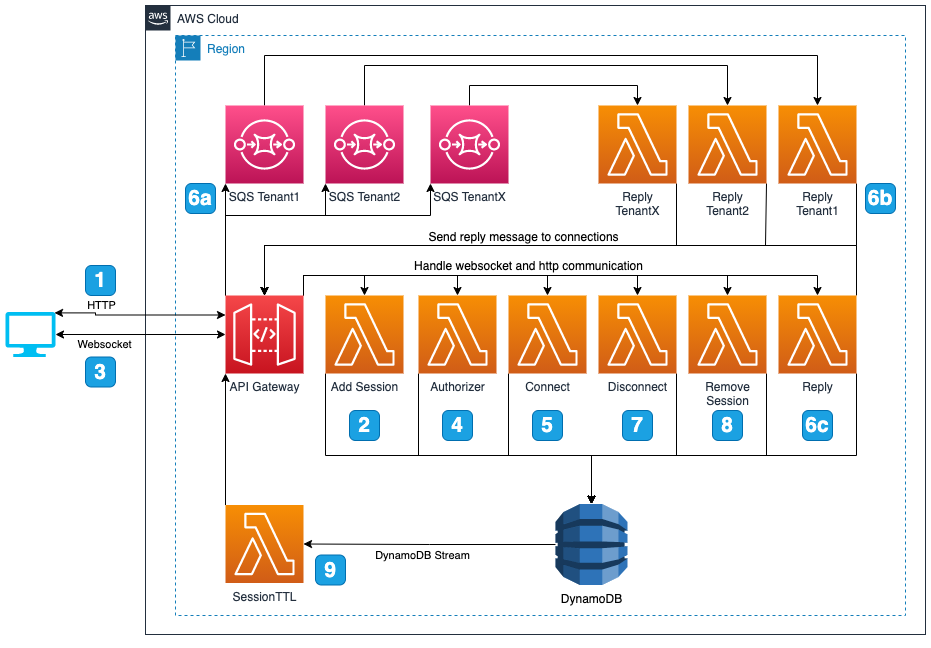
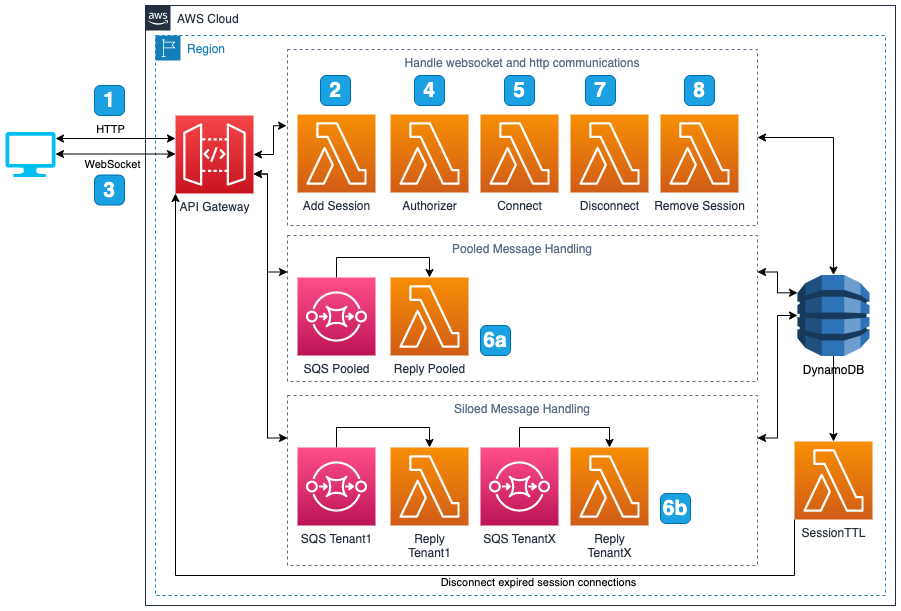
Updating to remove the default route and put in a pooled and siloed SQS FIFO queue to streamline the sample for multi tenancy

diff --git a/lambda/SampleClient.js b/lambda/SampleClient.js
@@ -5,8 +5,8 @@ const connectButton = document.querySelector("#connect");
 const createSessionButton = document.querySelector("#createSession");
 const deleteSessionButton = document.querySelector("#deleteSession");
 const clearLogButton = document.querySelector("#clearLog");
-const sendButton = document.querySelector("#send");
-const sendQueueButton = document.querySelector("#sendQueue");
+const sendPooledButton = document.querySelector("#sendPooled");
+const sendSiloButton = document.querySelector("#sendSilo");
 const tenantId = document.querySelector("#tenantId");
 const sessionId = document.querySelector("#sessionId");
 const message = document.querySelector("#message");
@@ -178,21 +178,19 @@ connectButton.addEventListener("click", () => {
     }
 });
 
-function sendMesssage(sqs) {
+function sendMesssage(silo) {
     let data = {};
     data.message = message.value;
-    if (sqs) {
-        data.action = "PerTenantSQS";
-    }
+    data.action = silo ? "SiloSQS" : "PooledSQS";
     let sendData = JSON.stringify(data);
     connection.send(sendData);
     addCommunication("Sent: " + sendData);
 }
 
-sendButton.addEventListener("click", () => {
+sendPooledButton.addEventListener("click", () => {
     sendMesssage(false);
 });
 
-sendQueueButton.addEventListener("click", () => {
+sendSiloButton.addEventListener("click", () => {
     sendMesssage(true);
 });

diff --git a/lambda/WebsocketEcho.js b/lambda/WebsocketEcho.js
@@ -5,6 +5,9 @@ const AWS = require("aws-sdk");
 const common = require("./Common.js");
 const apig = new AWS.ApiGatewayManagementApi({ endpoint: process.env.ApiGatewayEndpoint });
 
+/// This sample file is currently NOT used in this sample but is given as an example of executing a Lambda directly vs using SQS
+/// The blog post associated with this sample goes more in depth on why you may choose direct Lambda execution vs SQS
+
 exports.handler = async function(event, context) {
     //console.log('Received event:', JSON.stringify(event, null, 2));
     const {body, requestContext: {connectionId, routeKey, requestId}} = event;

diff --git a/lambda/SampleClient.html b/lambda/SampleClient.html
@@ -45,7 +45,7 @@
             <tr>
                 <td></td>
                 <td>
-                    <button id="connect">Connect</button><button id="send">Send</button><button id="sendQueue">Send Queue</button>
+                    <button id="connect">Connect</button><button id="sendSilo">Send Silo</button><button id="sendPooled">Send Pooled</button>
                 </td>
             </tr>
         </table>

diff --git a/src/main/java/com/amazonaws/services/sample/apigateway/websocketratelimit/RateLimitStack.java b/src/main/java/com/amazonaws/services/sample/apigateway/websocketratelimit/RateLimitStack.java
@@ -34,7 +34,6 @@ public class RateLimitStack extends Stack {
     private Function tenantFunction;
     private Function websocketConnectFunction;
     private Function websocketDisconnectFunction;
-    private Function websocketEchoFunction;
     private Function authorizerFunction;
     private WebSocketApi api;
     private HttpApi sessionApi;
@@ -57,10 +56,10 @@ public class RateLimitStack extends Stack {
         createTenantLambda();
         createWebsocketConnectLambda();
         createWebsocketDisconnectLambda();
-        createWebsocketEchoLambda();
         createAuthorizerLambda();
         createAPIGatewayWebsocket();
-        createPerTenantQueueWebsocketAPIRoute();
+        createQueueWebsocketAPIRoute(true); // silo
+        createQueueWebsocketAPIRoute(false); // pooled
         createAuthorizer();
         createConnectIntegration();
         createStage();
@@ -169,14 +168,6 @@ public class RateLimitStack extends Stack {
         sessionTable.grantReadWriteData(websocketDisconnectFunction);
     }
 
-    private void createWebsocketEchoLambda() {
-        websocketEchoFunction = Function.Builder.create(this, "WebsocketEcho")
-                .runtime(Runtime.NODEJS_12_X)
-                .code(Code.fromAsset("lambda"))
-                .handler("WebsocketEcho.handler")
-                .build();
-    }
-
     private void createAuthorizerLambda() {
         authorizerFunction = Function.Builder.create(this, "Authorizer")
                 .runtime(Runtime.NODEJS_12_X)
@@ -197,28 +188,25 @@ public class RateLimitStack extends Stack {
                                 .handler(websocketDisconnectFunction)
                                 .build())
                         .build())
-                .defaultRouteOptions(WebSocketRouteOptions.builder()
-                        .integration(LambdaWebSocketIntegration.Builder.create()
-                                .handler(websocketEchoFunction)
-                                .build())
-                        .build())
                 .build();
     }
 
-    private void createPerTenantQueueWebsocketAPIRoute() {
-        Role apiGatewayWebsocketSQSRole = Role.Builder.create(this, "ApiGatewayWebsocketSQSRole")
+
+    private void createQueueWebsocketAPIRoute(boolean silo) {
+        String nameExt = silo ? "Silo" : "Pooled";
+        Role apiGatewayWebsocketSQSRole = Role.Builder.create(this, "ApiGatewayWebsocket" + nameExt + "SQSRole")
                 .assumedBy(ServicePrincipal.Builder.create("apigateway.amazonaws.com").build())
-                .inlinePolicies(Map.of("APIGatewaySQSSendMessagePolicy", PolicyDocument.Builder.create()
+                .inlinePolicies(Map.of("APIGateway" + nameExt + "SQSSendMessagePolicy", PolicyDocument.Builder.create()
                                 .statements(List.of(PolicyStatement.Builder.create()
                                                 .effect(Effect.ALLOW)
                                                 .actions(List.of("sqs:SendMessage"))
-                                                .resources(List.of("arn:aws:sqs:" + getRegion() +":" + getAccount() + ":tenant-*.fifo"))
+                                                .resources(List.of("arn:aws:sqs:" + getRegion() +":" + getAccount() + ":tenant-" + (silo ? "*" : nameExt) + ".fifo"))
                                         .build()))
                         .build()))
                 .build();
         String requestTemplateItem = "";
         requestTemplateItem += "Action=SendMessage";
-        requestTemplateItem += "&MessageGroupId=$context.authorizer.sessionId";
+        requestTemplateItem += "&MessageGroupId=$context.authorizer.tenantId-$context.authorizer.sessionId";
         requestTemplateItem += "&MessageDeduplicationId=$context.requestId";
         requestTemplateItem += "&MessageAttribute.1.Name=tenantId&MessageAttribute.1.Value.StringValue=$context.authorizer.tenantId&MessageAttribute.1.Value.DataType=String";
         requestTemplateItem += "&MessageAttribute.2.Name=sessionId&MessageAttribute.2.Value.StringValue=$context.authorizer.sessionId&MessageAttribute.2.Value.DataType=String";
@@ -231,7 +219,7 @@ public class RateLimitStack extends Stack {
         requestTemplateItem += "&MessageAttribute.9.Name=tenantConnections&MessageAttribute.9.Value.StringValue=$context.authorizer.tenantConnections&MessageAttribute.9.Value.DataType=String";
         requestTemplateItem += "&MessageAttribute.10.Name=messagesPerMinute&MessageAttribute.10.Value.StringValue=$context.authorizer.messagesPerMinute&MessageAttribute.10.Value.DataType=String";
         requestTemplateItem += "&MessageBody=$input.json('$')";
-        CfnIntegration integration = CfnIntegration.Builder.create(this, "Integration")
+        CfnIntegration integration = CfnIntegration.Builder.create(this, nameExt + "Integration")
                 .apiId(api.getApiId())
                 .connectionType("INTERNET")
                 .integrationType("AWS")
@@ -244,17 +232,17 @@ public class RateLimitStack extends Stack {
                         "integration.request.header.Content-Type",
                         "'application/x-www-form-urlencoded'",
                         "integration.request.path.queue",
-                        "context.authorizer.tenantId"))
+                        silo ? "context.authorizer.tenantId" : "'" + nameExt + "'"))
                 .requestTemplates(Map.of(
                         "$default",
                         requestTemplateItem
                 ))
                 .build();
-        CfnRoute.Builder.create(this, "PerTenantQueueRoute")
+        CfnRoute.Builder.create(this, nameExt + "Route")
                 .apiId(api.getApiId())
-                .routeKey("PerTenantSQS")
+                .routeKey(nameExt + "SQS")
                 .target("integrations/" + integration.getRef())
-                .build();
+                .build();            
     }
 
     private void createAuthorizer() {
@@ -338,7 +326,6 @@ public class RateLimitStack extends Stack {
         setupWebsocketFunction(sessionTTLLambda, null, true, true);
         setupWebsocketFunction(websocketConnectFunction, "/*/$connect", true);
         setupWebsocketFunction(websocketDisconnectFunction, "/*/$disconnect", true);
-        setupWebsocketFunction(websocketEchoFunction, "/*/$default", true);
         setupWebsocketFunction(authorizerFunction, "/authorizers/" + authorizer.getRef(), false);
         setupWebsocketFunction(sessionFunction, null, false);
         setupWebsocketFunction(tenantFunction, null, false, false);
@@ -400,6 +387,8 @@ public class RateLimitStack extends Stack {
         addSampleTenantId("a5a82459-3f18-4ecd-89a6-2d13af314751", "60", "5", "2", "10", "200", "60", 1);
         addSampleTenantId("9175b21a-332a-4a7a-a72d-9184ad7186c0", "120", "10", "5", "100", "300","600",2);
         addSampleTenantId("31a2e8c6-1826-11ec-9621-0242ac130002", "180", "30", "10", "1000", "300","6000",3);
+        Function sqsEchoFunction = createSQSEchoLambda("Pooled");
+        createSQSFifoQueuePerTenant("Pooled", sqsEchoFunction);
     }
 
     private void addSampleTenantId(String tenantId, String tenantPerMinute, String sessionPerMinute, String connectionsPerSession, String tenantConnections, String sessionTTL, String messagesPerMinute, int index) {

diff --git a/README.md b/README.md
@@ -13,13 +13,13 @@ An Amazon SQS queue and AWS Lambda function is create for each tenant to allow f
 <img alt="Architecture" src="./images/architecture.png" />
 
 1. The client send an HTTP PUT request to the Amazon API Gateway HTTP endpoint to create a session for a tenant. This call could also be authenticated if required but that is outside the scope of this sample.
-2. The session AWS Lambda will create a session and store it in the DynamoDB with a TTL (Time To Live) value specified which will remove all session connections if no communication is sent or received over a specific period of time.
+2. The AWS Lambda will create a session and store it in the DynamoDB with a <a href="https://docs.aws.amazon.com/amazondynamodb/latest/developerguide/TTL.html">TTL (Time To Live)</a> value specified. <a href="https://docs.aws.amazon.com/amazondynamodb/latest/developerguide/time-to-live-ttl-streams.html">Amazon DynamoDB Streams</a> is used to remove all session connections if no communication is sent or received over a specific period of time.
 3. Once a session is created the client will initiate a websocket connection to the Amazon AWS API Gateway websocket endpoint.
 4. An AWS Lambda function is used as the Authorizer for the websocket connection. The authorizer will do the following:
    <ol type="a" style="list-style-type: lower-alpha;">
       <li>Validate the tenant exists</li>
       <li>Validate the session exists</li>
-      <li>Add the tenantId, sessionId, and tenant settings to the authorizer context</li>
+      <li>Add the tenantId, sessionId, connectionId, and tenant settings to the authorizer context</li>
    </ol>
 5. An AWS Lambda function is used during connect to do the following:
    <ol type="a" style="list-style-type: lower-alpha;">
@@ -30,11 +30,10 @@ An Amazon SQS queue and AWS Lambda function is create for each tenant to allow f
       <li>Add the connectionId to the sessions connectionId set and update the session Time To Live (TTL)</li>
       <li>Increment the total number of connections for the tenant</li>
    </ol>
-6. Messages are processed as either silo or pooled depending on the route selected 
+6. Messages are processed as either Siloed or Pooled FIFO Queue depending on the route selected. Note that is FIFO message ordering is not a concern there is the option to have direct Lambda execution.
    <ol type="a" style="list-style-type: lower-alpha;">
-     <li>To process message per tenant in silo mode with FIFO, messages are sent to the tenants corresponding SQS FIFO queue with the tenant, session, tenant settings, and connection ids as metadata.</li>
-     <li>An AWS Lambda function per tenant is used to read messages from the SQS FIFO queue with session based grouping to keep messages in order. The Lambda will also send the inbound message AND the response to all other connectionIds for the same session. Each inbound message will also update the session TTL.</li>
-     <li>An AWS Lambda function is invoked for each message received by a websocket connection. The Lambda will respond by echoing the message back to the sender. The Lambda will also send the inbound message AND the response to all other connectionIds for the same session. Each inbound message will also update the session TTL.</li>
+     <li>Siloed based processing of messages are sent to the tenants corresponding SQS FIFO queue based on the tenantId. The tenant, session, tenant settings, and connection ID are added as metadata. An AWS Lambda function per tenant is used to read messages from the tenants SQS FIFO queue with a combination of tenantId and sessionId based grouping to keep messages in order. The Lambda will also send the inbound message AND the response to all other connectionIds for the same session. Each inbound message will also update the session TTL.</li>
+     <li>Pooled based processing of messages are sent to a single pooled SQS FIFO queue. The tenant, session, tenant settings, and connection ID are added as metadata. An AWS Lambda function is used to read messages from the SQS FIFO queue with a combination of tenantId and sessionId based grouping to keep messages in order. The Lambda will also send the inbound message AND the response to all other connectionIds for the same session. Each inbound message will also update the session TTL.</li>
    </ol>
 7. An AWS Lambda function is used during disconnect to do the following:
    <ol type="a" style="list-style-type: lower-alpha;">
@@ -42,7 +41,6 @@ An Amazon SQS queue and AWS Lambda function is create for each tenant to allow f
      <li>Decrement the total number of connections for the tenant</li>
    </ol>
 8. Once all connections are closed the client will send an HTTP DELETE request to the Amazon API Gateway HTTP endpoint to remove the session.
-9. An AWS Lambda function is used to process all DynamoDB stream updates. This function will check for TTL events and remove connections for sessions that expire.
 
 ## Requirements
 1. <a href="https://maven.apache.org/">Apache Maven</a> 3.8.1
@@ -70,9 +68,9 @@ The sample can be used to test the various aspects of the system. The following 
 2. Wait for the tenant Ids to load
 3. Click the **Create Session** button to create a new session
 4. Click the **Connect** button
-5. Once connected try both the **Send** and **Send Queue** buttons
-   1. The **Send** button will send via the **default** route which uses the pooled execution model
-   2. The **Send Queue** button will send via the **PerTenantSQS** route which uses the siloed SQS FIFO queue execution model
+5. Once connected try both the **Send Silo** and **Send Pooled** buttons
+   1. The **Send Silo** button will send via the **SiloSQS** route which uses the siloed SQS FIFO queue execution model
+   2. The **Send Pooled** button will send via the **PooledSQS** route which uses the pooled SQS FIFO queue execution model
 6. Click the **Disconnect** button to close the connection
 7. Click the **Delete Session** button to remove the current session
 
@@ -81,9 +79,9 @@ The sample can be used to test the various aspects of the system. The following 
 
 ## Silo vs Pooled Message processing
 ### Silo
-SQS queues and siloed Lambdas per tenant are used in silo mode. The API gateway will use the authorization contexts tenantId to determine the queue name per tenant. Each SQS queue has a linked Lambda function to process messages which send an echo reply.
+SQS FIFO queues and siloed Lambdas per tenant are used in silo mode. The API gateway will use the authorization contexts tenantId to determine the queue name per tenant. Each SQS FIFO queue has a linked Lambda function to process messages which send an echo reply.
 ### Pooled
-Basic API Gateway to Lambda execution is used for pooled mode. Each message received by the API gateway on the default route will invoke the reply Lambda. The Lambda will use the authorization context to handle tenant isolation.
+A single SQS FIFO queue and siloed Lambdas per tenant are used in silo mode. The API gateway will use the authorization contexts tenantId to determine the queue name per tenant. Each SQS FIFO queue has a linked Lambda function to process messages which send an echo reply.
 
 ## DynamoDB Table Structures
 All tables access is restricted by a partition key condition to only allow access to rows for which the primary index matches the current tenantId.
